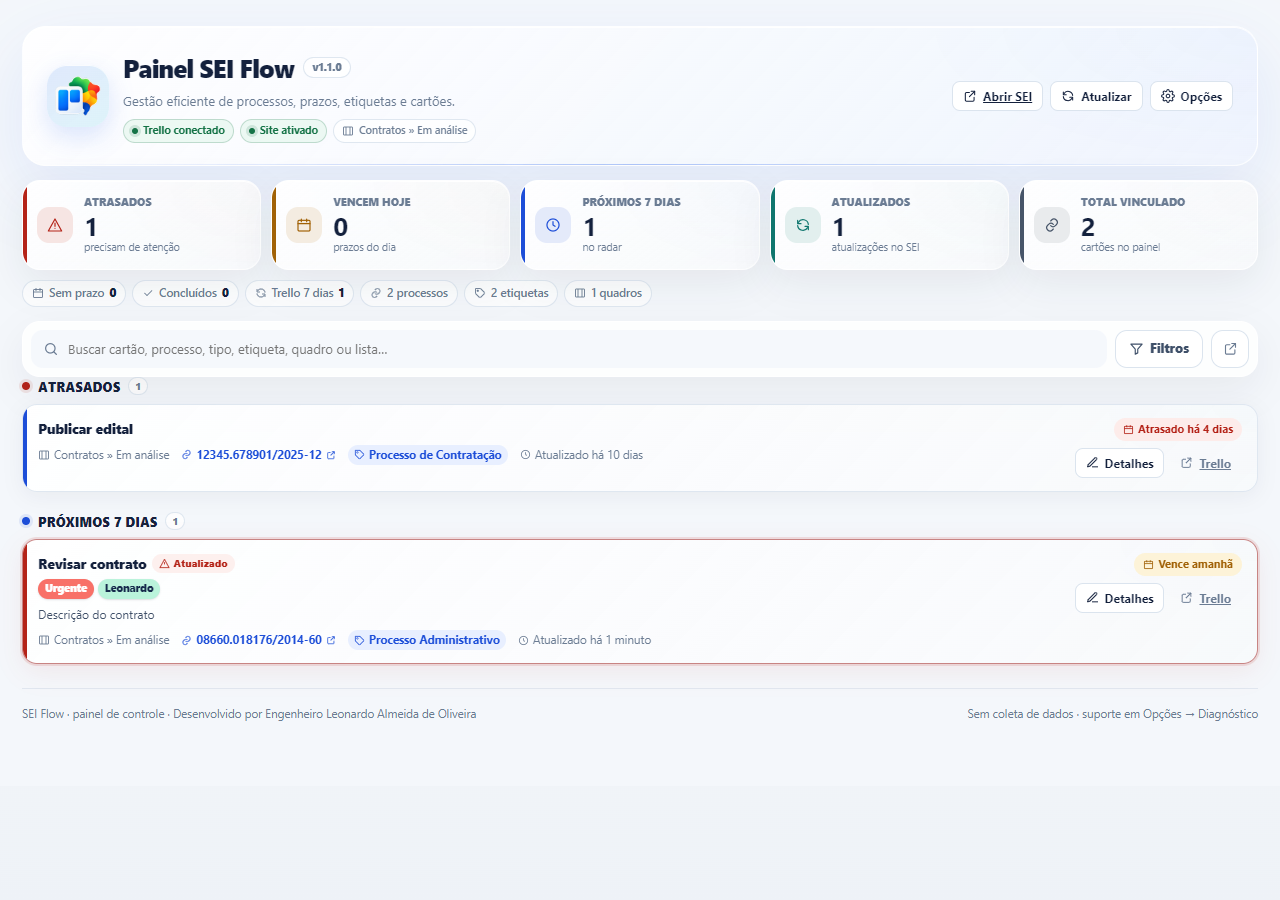
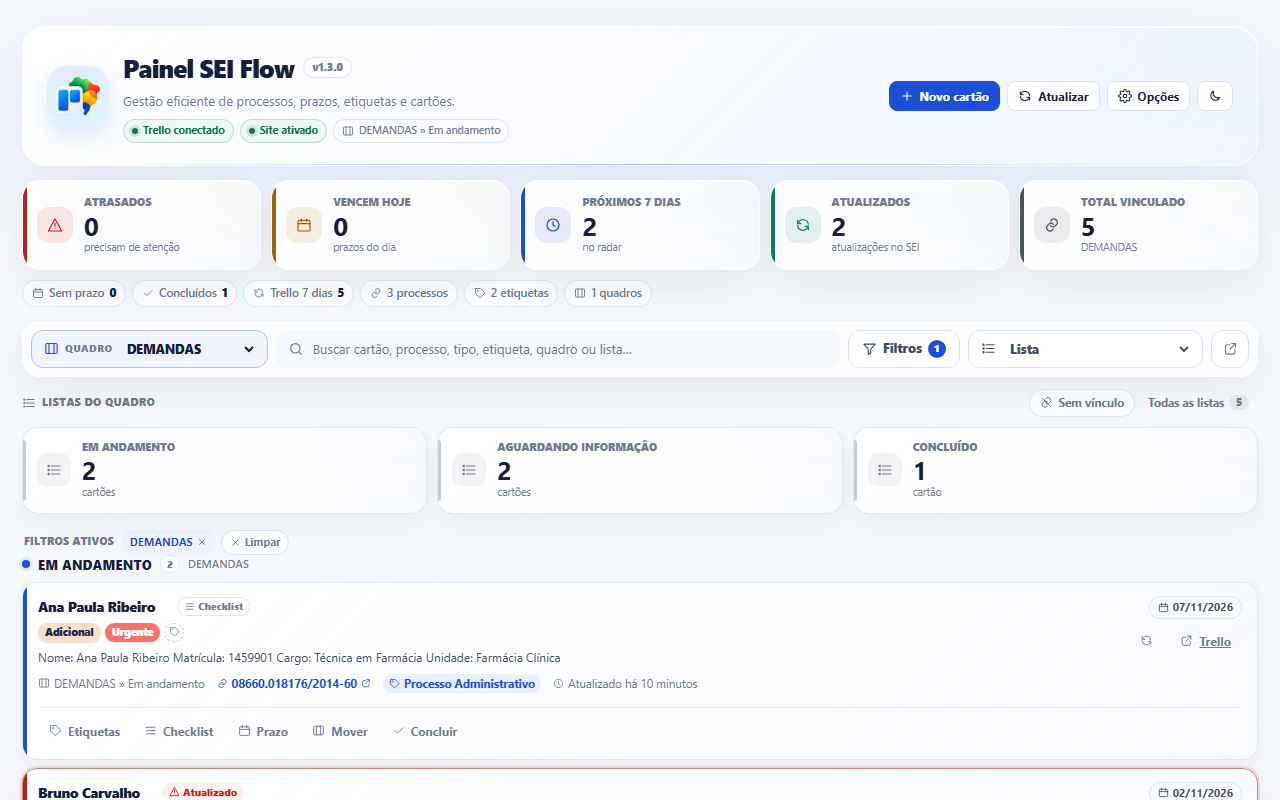
docs: atualizar readme e capturas para a 1.3.0

diff --git a/README.md b/README.md
@@ -12,8 +12,8 @@ O **Painel SEI Flow** é a página inicial da extensão: reúne prazos, etiqueta
 
 ## Baixar e instalar
 
-- **Chrome / Edge:** [sei-flow-1.2.0-chrome.zip](https://github.com/engleonardo/SEI/releases/download/v1.2.0/sei-flow-1.2.0-chrome.zip)
-- **Firefox:** [sei-flow-1.2.0-firefox.zip](https://github.com/engleonardo/SEI/releases/download/v1.2.0/sei-flow-1.2.0-firefox.zip)
+- **Chrome / Edge:** [sei-flow-1.3.0-chrome.zip](https://github.com/engleonardo/SEI/releases/download/v1.3.0/sei-flow-1.3.0-chrome.zip)
+- **Firefox:** [sei-flow-1.3.0-firefox.zip](https://github.com/engleonardo/SEI/releases/download/v1.3.0/sei-flow-1.3.0-firefox.zip)
 - **Todas as versões:** [Releases](https://github.com/engleonardo/SEI/releases)
 
 Depois de baixar, **extraia o zip** e carregue a pasta em `chrome://extensions` (ou `edge://extensions`) com o **Modo desenvolvedor** ativado. No Firefox, use `about:debugging` -> **Carregar extensão temporária** e selecione o `manifest.json` da pasta extraída.
@@ -39,7 +39,10 @@ Depois de baixar, **extraia o zip** e carregue a pasta em `chrome://extensions` 
 ## Capturas de tela
 
 <p align="center">
-  <img src="docs/screenshots/dashboard.png" width="100%" alt="Painel SEI Flow com métricas, filtros, etiquetas e cartões" />
+  <img src="docs/screenshots/dashboard.png" width="100%" alt="Painel SEI Flow com métricas, listas na ordem do Trello e cartões" />
+</p>
+<p align="center">
+  <img src="docs/screenshots/dashboard-dark.png" width="100%" alt="Painel SEI Flow no modo escuro" />
 </p>
 <p align="center">
   <img src="docs/screenshots/list.png" width="48%" alt="Lista de processos com cartões do Trello" />
@@ -76,7 +79,11 @@ Depois de baixar, **extraia o zip** e carregue a pasta em `chrome://extensions` 
 | Desvincular sem excluir do Trello | Sim |
 | Excluir cartão do Trello | Sim |
 | Filtros por quadro, lista, etiqueta, prazo e cartão | Sim |
-| Tema claro/escuro (claro padrão) | Sim |
+| Filtro **Sem vínculo** e vínculo por número no comentário | Sim |
+| Criar cartão direto pelo painel | Sim |
+| Listas na ordem do Trello e ordenação padrão por lista | Sim |
+| Importar e exportar regras em JSON | Sim |
+| Tema claro/escuro no painel, opções e painéis do SEI | Sim |
 | Cache e retry/backoff em 429/5xx | Sim |
 | Painel SEI Flow como página inicial da extensão | Sim |
 | Painel moderno com métricas resumidas e filtros recolhíveis | Sim |
@@ -85,7 +92,6 @@ Depois de baixar, **extraia o zip** e carregue a pasta em `chrome://extensions` 
 | Edição completa dos cartões pelo painel, sem modal | Sim |
 | Métricas do painel refletem os filtros aplicados | Sim |
 | Links dos processos abrem a página correspondente no SEI | Sim |
-| Badge com processos atualizados no SEI | Sim |
 | Atualizações do Trello (7/30 dias e desde a última visita) | Sim |
 | Notificações diárias de prazos | Sim |
 | Barra fixa, atalho de busca e filtros persistidos | Sim |
